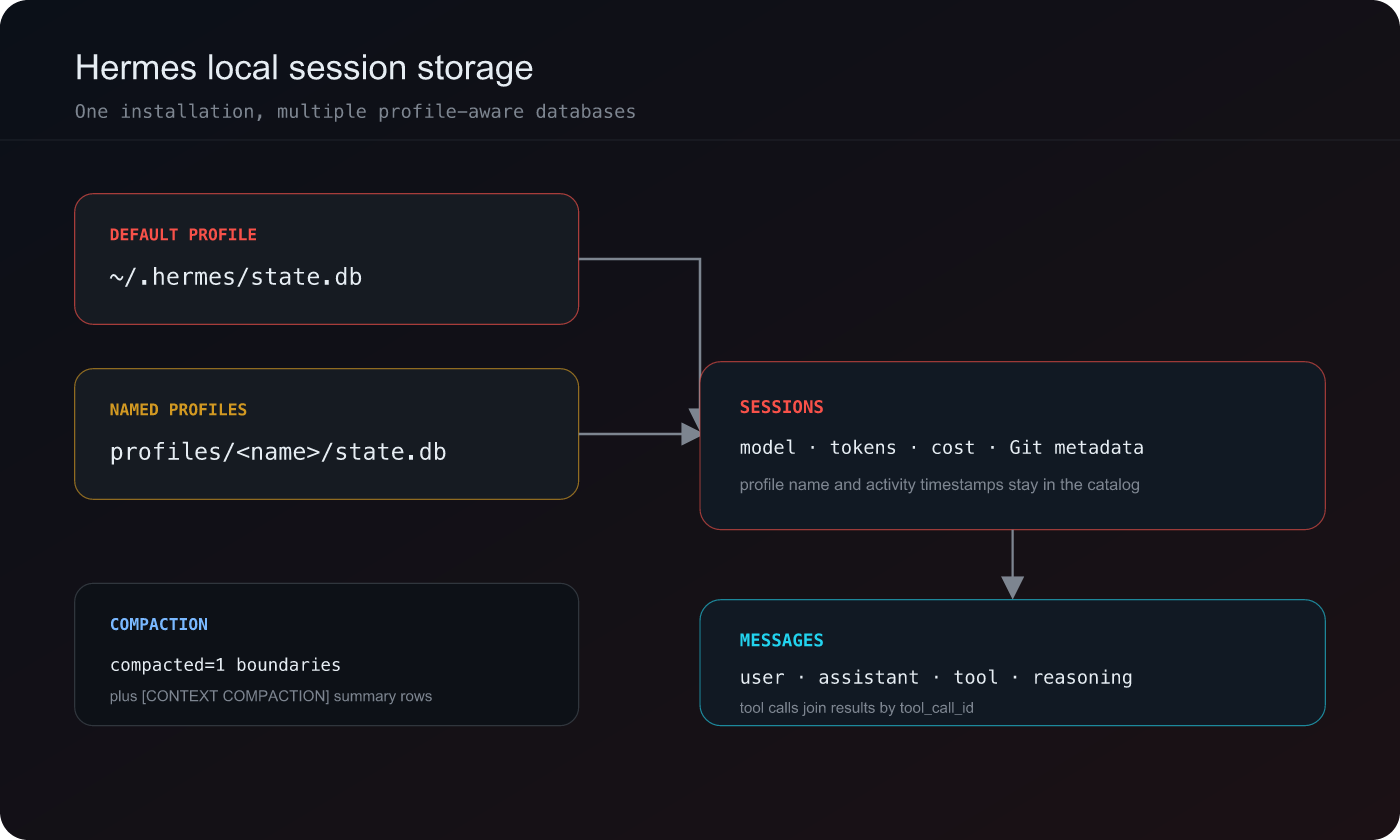
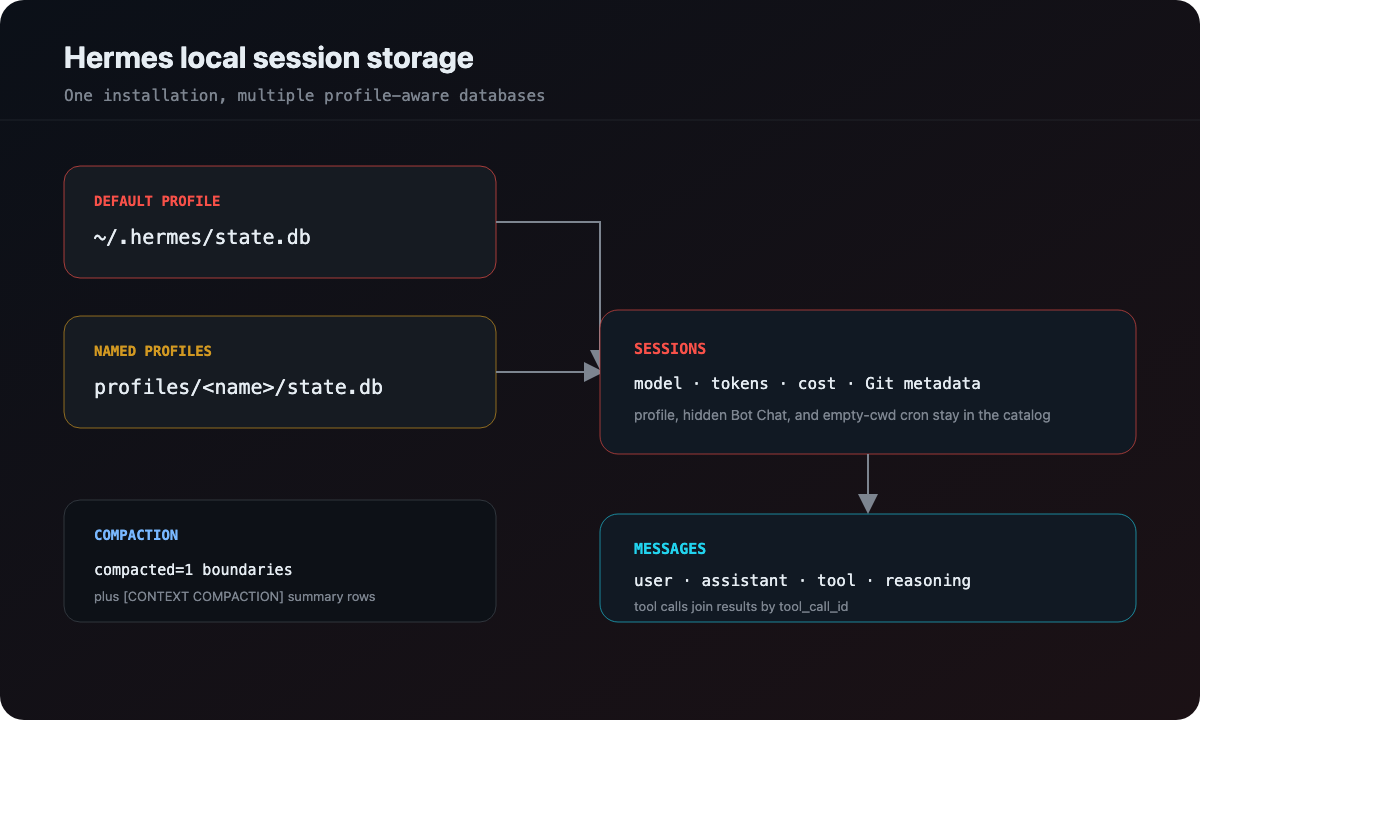
docs(blog): correct Hermes and OpenCode storage from live sessions
The original posts missed Bot Chat / empty-cwd Hermes sessions and
OpenCode parent_id subagent rows, and treated stored-zero costs as bills.

diff --git a/website/src/content/blog/hermes-local-storage.md b/website/src/content/blog/hermes-local-storage.md
@@ -1,17 +1,17 @@
 ---
 title: "What Does Hermes Store Locally? state.db + Profiles"
-excerpt: "Hermes keeps session metadata, token accounting, reasoning, and tool calls in SQLite — with named profiles and two different compaction signals."
+excerpt: "Hermes keeps session metadata, token accounting, reasoning, and tool calls in SQLite — with named profiles, Bot Chat, and two different compaction signals."
 cover: "/blog/hermes-storage/storage-map.png"
 date: 2026-08-05
 updated: 2026-09-03
-readTime: "7 min read"
+readTime: "8 min read"
 ---
 
 Hermes sessions look like conversations, but Hermes stores them like a small observability system.
 
 The database knows things a transcript alone usually does not: the session’s model, Git branch, token totals, estimated and actual cost, profile, end reason, and whether the session is pinned. The message table then adds the visible conversation, reasoning, tool calls, and tool results.
 
-The surprising part is that compaction is represented twice, and named profiles are separate databases. A parser that reads only the default file or counts every user row will produce a replay that is technically readable but semantically wrong.
+The surprising part is that compaction is represented twice, named profiles are separate databases, and some of the most active sessions have no workspace path at all. A parser that reads only the default file, treats every empty `cwd` as one “Hermes” bucket, or counts every user row will produce a replay that is technically readable but semantically wrong.
 
 The practical mental model is:
 
@@ -29,20 +29,27 @@ vibe-replay discovers those databases together, keeps profile identity out of th
 
 ## Where does Hermes store sessions?
 
-Hermes uses `~/.hermes` by default. `HERMES_HOME` can override the root, with one subtle rule: if it points inside the default Hermes root or inside a named profile, the provider still treats the default root as the installation root and scans sibling profiles.
+Hermes uses `~/.hermes` by default. `HERMES_HOME` can override the root, with the same rule Hermes itself uses:
+
+- no override → `~/.hermes`;
+- a path *inside* `~/.hermes` (profile mode, including `profiles/<name>`) → root stays `~/.hermes`, so sibling profiles remain visible;
+- a path outside `~/.hermes` that itself ends at `profiles/<name>` → root is that grandparent;
+- any other custom directory → that directory is the root.
 
 The common layout is:
 
 ```text
 ~/.hermes/
 ├── state.db
+├── state.db-wal
 ├── .update_check
 └── profiles/
-    ├── work/state.db
-    └── experiments/state.db
+    └── work/         # a named profile is a full home, not just a second file
+        ├── state.db
+        └── state.db-wal
 ```
 
-A custom installation outside `~/.hermes` can use that custom directory as its root. This is useful for containers and isolated test environments.
+A named profile can carry its own config, skills, cron jobs, and Bot Chat. Scanning only the default `state.db` makes that whole home look empty.
 
 To inspect the layout without reading conversation data:
 
@@ -61,17 +68,20 @@ The `sessions` table is the catalog. Depending on Hermes version, a row can cont
 - start, end, and last-activity timestamps;
 - message and tool-call totals;
 - input, output, cache-read, cache-write, and reasoning tokens;
-- estimated cost and actual cost, with a cost status;
+- estimated cost and actual cost, with a cost status (`estimated`, `included`, `unknown`);
 - Git branch and repository root;
 - parent session and profile name;
-- pin and end-reason flags.
+- pin, hidden, and end-reason flags.
+
+`cwd` is optional. Cron runs, Bot Chat, and other gateway sessions often store an empty working directory. That is a real session class, not missing data.
 
 The `messages` table carries the conversation. Hermes uses OpenAI-style roles, which makes the broad shape familiar:
 
 ```text
-user       → prompt text or a compaction summary
-assistant   → text, reasoning, and tool_calls JSON
-tool       → tool_name, tool_call_id, and result content
+user          → prompt text or a compaction summary
+assistant     → text, reasoning, and tool_calls JSON
+tool          → tool_name, tool_call_id, and result content
+session_meta  → skipped by a replay reader
 ```
 
 That shape is convenient for a replay reader, but the JSON payloads still need validation. A malformed `tool_calls` value should become a parse warning for one message, not a reason to discard the entire session.
@@ -90,6 +100,27 @@ The safe discovery sequence is:
 6. sort the combined result by last activity.
 
 When a session is later opened, the database path is part of the provider marker. That lets the parser find the right profile instead of guessing from the current `HERMES_HOME`.
+
+## Bot Chat is a hidden session, not a missing workspace
+
+A named profile is more than an extra database. Hermes Bot Mode gives each bot its own home under `profiles/<name>/`, and the canonical **Bot Chat** is a session row with:
+
+- `title` of `Bot Chat`;
+- `hidden = 1`;
+- `profile_name` set to that bot;
+- an empty `cwd`.
+
+Cron jobs look similar from the catalog’s point of view: empty `cwd`, a `cron_*` session id, and an end reason such as `cron_complete`. They are not Bot Chat, but they fail the same naive project rule — “no working directory means dump everything into one Hermes bucket.”
+
+The useful mapping is:
+
+```text
+cwd present     → project is the workspace
+cwd empty       → project is profiles/<profile_name>
+no profile path → fall back to a generic Hermes label
+```
+
+vibe-replay uses that fallback so two bots do not collapse into one project just because neither chat had a git repo. It does not invent a workspace that Hermes never recorded.
 
 ## Hermes compaction appears in two forms
 
@@ -111,7 +142,7 @@ normal normal compacted compacted normal compacted compacted
 Some stores also contain a user message beginning with a marker such as:
 
 ```text
-[CONTEXT COMPACTION ...]
+[CONTEXT COMPACTION — REFERENCE ONLY]
 ```
 
 That row is a compaction summary, not a human prompt. It should become a dedicated compaction event in the replay and should be excluded from prompt counts.
@@ -122,16 +153,17 @@ This is a useful general rule: classify events by their provider semantics, not 
 
 ## Where do Hermes costs and tokens come from?
 
-Hermes maintains usage fields on the session row and may also maintain a per-model usage table. The provider can report:
+Hermes maintains usage fields on the session row and a `session_model_usage` table for per-model splits. The useful cost rule is:
 
-- actual cost when the store has it;
-- estimated cost when actual billing is unavailable;
-- zero when the store says cost is not included or unknown;
-- token categories split by model.
+- prefer `actual_cost_usd` when it is positive;
+- otherwise take `estimated_cost_usd` when that is positive;
+- skip the number when `cost_status` is `included` or `unknown` and the stored totals are zero.
+
+That last case is not “this session cost $0.00.” Subscription and unknown billing often store a literal zero. Reporting that zero as a reconstructed bill is worse than leaving cost blank.
 
 Those values should not be recomputed from a local pricing table if Hermes already reported a total. A local estimate can be useful as a fallback, but it must not replace a provider-owned number or add itself on top of it.
 
-The same caution applies to duration. `started_at` and `last_activity_at` define a broad window; message timestamps help estimate active time, but idle periods are not automatically model work.
+The same caution applies to duration. `started_at` and `last_activity_at` define a broad window that includes idle time. Message timestamps help estimate active time. Tool duration is even narrower: Hermes stores the assistant `tool_calls` row and the matching `role = 'tool'` result as separate timestamps, so a reader can infer per-tool duration from that pair — as long as the gap is short enough to be execution rather than the user walking away.
 
 ## The SQLite WAL caveat
 
@@ -155,9 +187,10 @@ vibe-replay keeps the fast dashboard pass lightweight and defers full parsing un
 2. prefers the hinted profile database;
 3. falls back to probing known Hermes databases when needed;
 4. reconstructs user prompts, assistant text, reasoning, and parallel tool calls;
-5. joins tool results by `tool_call_id`;
+5. joins tool results by `tool_call_id` and infers tool duration from the two timestamps;
 6. preserves orphan tool results instead of undercounting activity;
-7. emits compaction events and provider-reported usage separately.
+7. maps cwd-less sessions onto the profile path instead of a generic bucket;
+8. emits compaction events and provider-reported usage separately.
 
 The viewer can therefore show a full Hermes session without flattening away profile, cost, model, or compaction semantics.
 
@@ -169,12 +202,14 @@ Start with schema and catalog metadata:
 DB="${HERMES_HOME:-$HOME/.hermes}/state.db"
 sqlite3 "$DB" 'pragma table_info(sessions);'
 sqlite3 "$DB" \
-  'select id, title, model, last_activity_at
+  'select id, title, profile_name, hidden, model, last_activity_at
    from sessions order by last_activity_at desc limit 10;'
 ```
 
+If `hidden` or `profile_name` is missing, drop those columns. Probe `pragma table_info(sessions)` first.
+
 Do not publish the database itself. It can contain prompts, reasoning, tool arguments, file contents, tokens, and paths. Use synthetic examples when writing bug reports, and review the generated replay before sharing it.
 
-Hermes is a good example of why “read the transcript” is not a complete storage strategy. The durable truth is a profile-aware SQLite catalog plus an OpenAI-shaped message stream, with compaction and billing metadata that deserve their own logic. Once you model those layers separately, the replay becomes both more accurate and more honest about what the source actually recorded.
+Hermes is a good example of why “read the transcript” is not a complete storage strategy. The durable truth is a profile-aware SQLite catalog plus an OpenAI-shaped message stream, with Bot Chat, compaction, and billing metadata that deserve their own logic. Once you model those layers separately, the replay becomes both more accurate and more honest about what the source actually recorded.
 
 For comparison, see [OpenCode’s relational session database](/blog/opencode-local-storage/) and the JSONL tree used by [Pi coding agent](/blog/pi-local-storage/).

diff --git a/website/src/content/blog/opencode-local-storage.md b/website/src/content/blog/opencode-local-storage.md
@@ -1,10 +1,10 @@
 ---
 title: "What Does OpenCode Store Locally? opencode.db Explained"
-excerpt: "OpenCode stores sessions, messages, and tool parts in SQLite—not JSONL. Here's the schema, the compaction trap, and how to read it safely."
+excerpt: "OpenCode stores sessions, messages, and tool parts in SQLite—not JSONL. Here's the schema, the subagent rows, the compaction trap, and how to read it safely."
 cover: "/blog/opencode-storage/storage-map.png"
 date: 2026-08-03
 updated: 2026-09-03
-readTime: "7 min read"
+readTime: "8 min read"
 ---
 
 OpenCode looks like a chat interface, but its local history is closer to an application database.
@@ -14,9 +14,9 @@ That matters the first time you try to answer a simple question such as “show 
 The useful mental model is:
 
 ```text
-session row   → identity, title, project, timestamps, model, cost
+session row   → identity, title, project, parent_id, timestamps, model JSON, cost
 message rows  → user/assistant boundaries and message metadata
-part rows     → text, reasoning, tools, files, results, compaction markers
+part rows     → text, reasoning, tools, step markers, files, compaction
 ```
 
 ![Diagram of the OpenCode opencode.db session, message, and part tables](/blog/opencode-storage/storage-map.png)
@@ -31,12 +31,12 @@ On macOS and Linux, OpenCode normally uses:
 ~/.local/share/opencode/opencode.db
 ```
 
-On Windows, the default follows `%LOCALAPPDATA%\opencode\opencode.db`. The `OPENCODE_DATA` environment variable overrides the data directory on every platform.
+On Windows, the default follows `%LOCALAPPDATA%\opencode\opencode.db`. `OPENCODE_DATA` overrides the data directory on every platform. On macOS and Linux, `XDG_DATA_HOME` can move the whole XDG data root, so the default is `${XDG_DATA_HOME:-$HOME/.local/share}/opencode`.
 
-So the portable way to locate the database is:
+The portable way to locate the database is:
 
 ```bash
-echo "${OPENCODE_DATA:-$HOME/.local/share/opencode}/opencode.db"
+echo "${OPENCODE_DATA:-${XDG_DATA_HOME:-$HOME/.local/share}/opencode}/opencode.db"
 ```
 
 The variable names and schema are implementation details of the local OpenCode build. A future release may add columns or reshape JSON payloads without changing the fact that the database is the source of truth.
@@ -44,7 +44,7 @@ The variable names and schema are implementation details of the local OpenCode b
 If SQLite is installed, a quick inventory is:
 
 ```bash
-sqlite3 "${OPENCODE_DATA:-$HOME/.local/share/opencode}/opencode.db" \
+sqlite3 "${OPENCODE_DATA:-${XDG_DATA_HOME:-$HOME/.local/share}/opencode}/opencode.db" \
   '.tables'
 ```
 
@@ -57,12 +57,14 @@ OpenCode has a relational conversation model. A session is the container; messag
 A simplified shape looks like this:
 
 ```text
-session(id, slug, title, directory, time_created, time_updated, model, cost)
+session(id, parent_id, slug, title, directory, time_created, time_updated, model, cost)
   └── message(id, session_id, data)
-        └── part(id, message_id, data)
+        └── part(id, message_id, session_id, data)
 ```
 
 The `data` columns are JSON rather than a single normalized column for every possible event. That lets OpenCode add a new part type without a database migration for every UI feature, but it means a reader must validate JSON and branch on `type`.
+
+`model` is not a plain string. Current builds store JSON such as `{"id":"…","providerID":"opencode"}`. Selecting the column as if it were the model name will print the whole object.
 
 Typical message metadata includes:
 
@@ -74,19 +76,31 @@ Typical message metadata includes:
 
 Typical parts include:
 
-- user text;
-- assistant text;
-- reasoning;
-- tool calls and their state;
-- patches or file changes;
-- images and files;
-- compaction markers.
+- `text` and `reasoning`;
+- `tool` calls and their state;
+- `patch` and `file`;
+- `compaction` markers;
+- `step-start` / `step-finish` streaming markers.
 
-The part boundary is important. A message with a tool call is not the same thing as a message whose text merely mentions a tool. Counting parts gives you tool-call volume; counting user message text gives you prompts.
+Those last two are usually the most numerous part types. They are not prompts, tools, or results. Counting every part as content inflates activity; counting only `tool` parts gives tool-call volume, and counting user `text` parts (minus compaction) gives prompts.
+
+## Child sessions are not top-level conversations
+
+OpenCode stores subagent work as extra `session` rows with `parent_id` set. The titles look like conversations — `Explore repo structure (@explore subagent)` — but they belong to a parent session, not the picker.
+
+A catalog query that does `SELECT * FROM session` therefore lists children next to their parents. vibe-replay keeps those child rows out of discovery when the column exists:
+
+```sql
+SELECT id, slug, title, directory
+FROM session
+WHERE parent_id IS NULL;
+```
+
+Older databases may not have `parent_id`. In that case the filter has to disappear rather than fail with `no such column`. The child row is still parseable if you already have its id; it just should not appear as its own card in a session list.
 
 ## The compaction trap: not every user-looking row is a prompt
 
-OpenCode writes context compaction as a synthetic user message with a compaction part. That row may also contain text.
+OpenCode writes context compaction as a synthetic user message with a `compaction` part. Current builds often store that part alone. Older or mixed messages can also carry `text` on the same row.
 
 If you count every `role = 'user'` message, the compaction summary becomes an extra human prompt. The dashboard then reports too many turns, and the first-prompt preview can become a summary instead of something the user typed.
 
@@ -136,11 +150,12 @@ This is a general lesson for local AI-agent storage: the database is real, but i
 
 Some OpenCode versions persist session-level cost and token fields. Assistant message JSON can also contain per-message usage, including cached input and output. Those values have different scopes:
 
-- session cost is a provider-reported total when present;
+- `session.cost` is a provider-reported total, but the column is often `NOT NULL` with a stored `0.0`;
+- free or unbilled models commonly keep that zero even after millions of input tokens;
 - message usage is attached to an assistant response;
-- a missing value means “not recorded,” not “zero.”
+- a stored zero is closer to “not billed / not recorded” than to a reconstructed $0.00 invoice.
 
-vibe-replay preserves provider-reported cost when it exists and keeps token categories separate. It does not silently add a session total to per-message totals, which would double count the bill.
+vibe-replay preserves provider-reported cost only when it is positive, and it keeps token categories separate. It does not treat `cost = 0` as a bill, and it does not add a session total to per-message totals.
 
 The same principle applies to timing. OpenCode has message timestamps, but idle gaps are not necessarily active model time. A replay can show the timeline while labeling reconstructed duration as an estimate.
 
@@ -160,7 +175,7 @@ A tool should not copy or mutate the live database just to chase those rows. It 
 
 ## How vibe-replay reads OpenCode
 
-Discovery reads the `session` table and joins aggregate counts from `message` and `part`. Each discovered session gets a marker path in this form:
+Discovery reads the `session` table, skips child rows when `parent_id` is present, and joins aggregate counts from `message` and `part`. Each discovered session gets a marker path in this form:
 
 ```text
 <database-path>#session:<session-id>
@@ -173,7 +188,7 @@ When you open a replay, the provider:
 1. resolves the session id from the marker;
 2. opens the hinted SQLite database with a portable read-only reader;
 3. reads messages in timestamp order;
-4. expands parts into text, reasoning, tool calls, results, images, and compaction events;
+4. expands parts into text, reasoning, tool calls, results, images, and compaction events, skipping `step-start` / `step-finish`;
 5. maps provider-specific tool names into the shared viewer vocabulary;
 6. records parse warnings instead of hiding malformed rows.
 
@@ -184,11 +199,16 @@ That gives OpenCode sessions the same useful output as a JSONL provider without 
 Start with metadata, not a full dump:
 
 ```bash
-DB="${OPENCODE_DATA:-$HOME/.local/share/opencode}/opencode.db"
+DB="${OPENCODE_DATA:-${XDG_DATA_HOME:-$HOME/.local/share}/opencode}/opencode.db"
 sqlite3 "$DB" \
-  'select id, title, directory, datetime(time_updated/1000, "unixepoch")
-   from session order by time_updated desc limit 10;'
+  'select id, title, directory, parent_id,
+          datetime(time_updated/1000, "unixepoch")
+   from session
+   where parent_id is null
+   order by time_updated desc limit 10;'
 ```
+
+If `parent_id` is missing, drop that column and the `where` clause. That is the schema-drift case above, not a broken install.
 
 Do not paste the result into a public issue without checking it. Titles, directories, prompts, tool arguments, and file contents can all be sensitive. Generate a reviewed replay instead of sharing the database.
 
